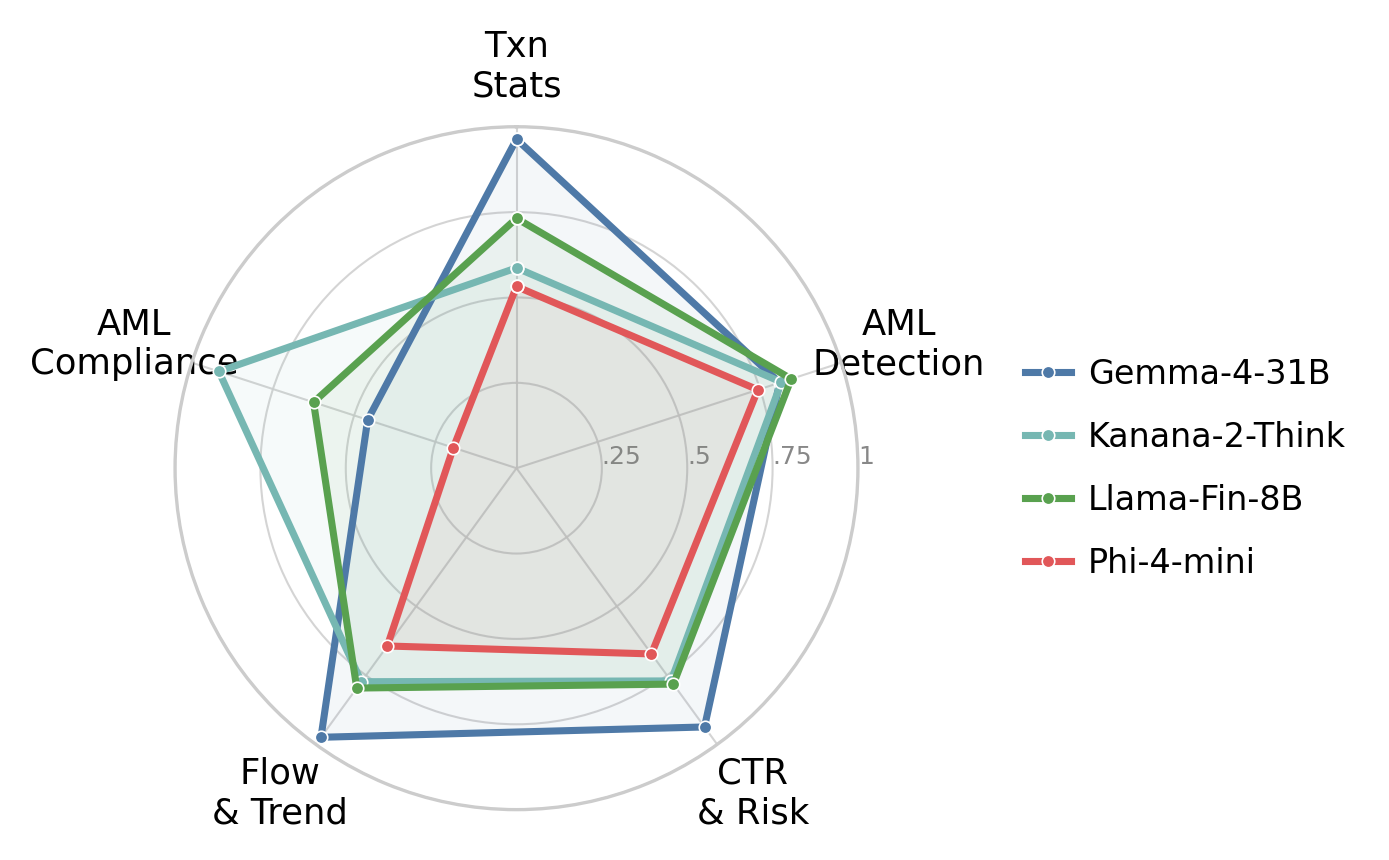
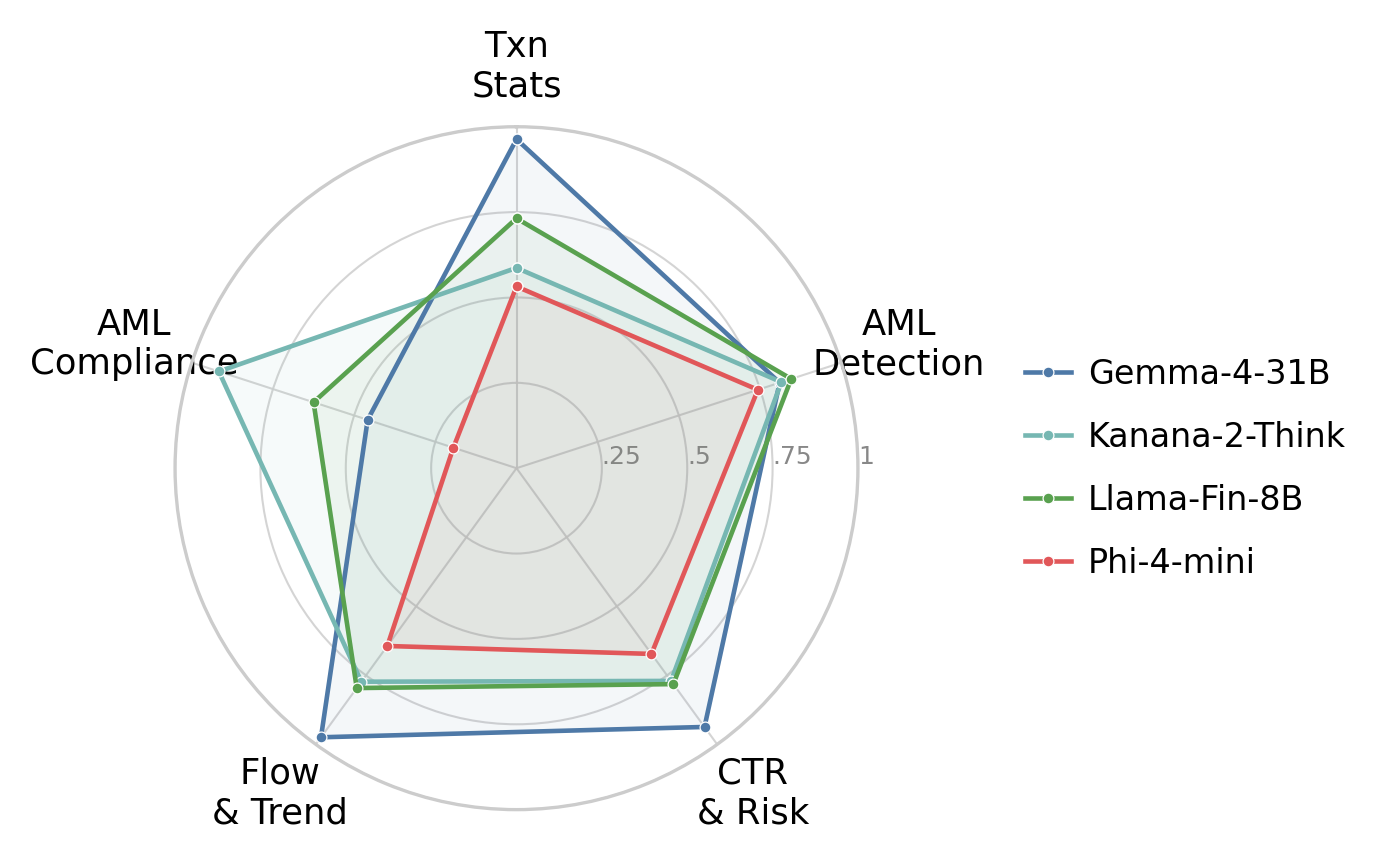
fig1 (radar): thinner polygon lines (1.7->1.1) + smaller markers

diff --git a/_experiments/scripts/generate_subdomain_radar.py b/_experiments/scripts/generate_subdomain_radar.py
@@ -88,8 +88,8 @@ def main():
     ax.set_theta_direction(-1)              # clockwise
     for disp, (vals, color) in prof.items():
         vv = vals + vals[:1]
-        ax.plot(ang, vv, color=color, linewidth=1.7, marker="o", markersize=3,
-                markeredgecolor="white", markeredgewidth=0.4, label=disp, zorder=3)
+        ax.plot(ang, vv, color=color, linewidth=1.1, marker="o", markersize=2.6,
+                markeredgecolor="white", markeredgewidth=0.3, label=disp, zorder=3)
         ax.fill(ang, vv, color=color, alpha=0.06, zorder=2)
 
     ax.set_xticks(ang[:-1])
